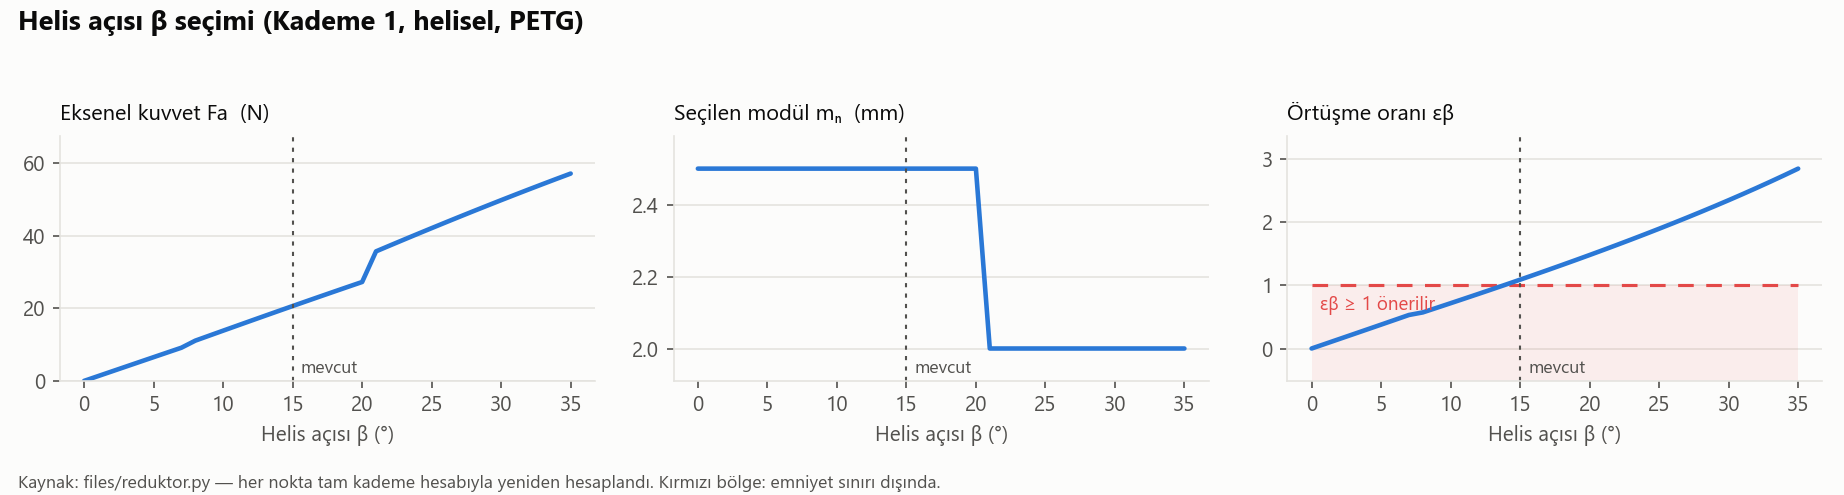
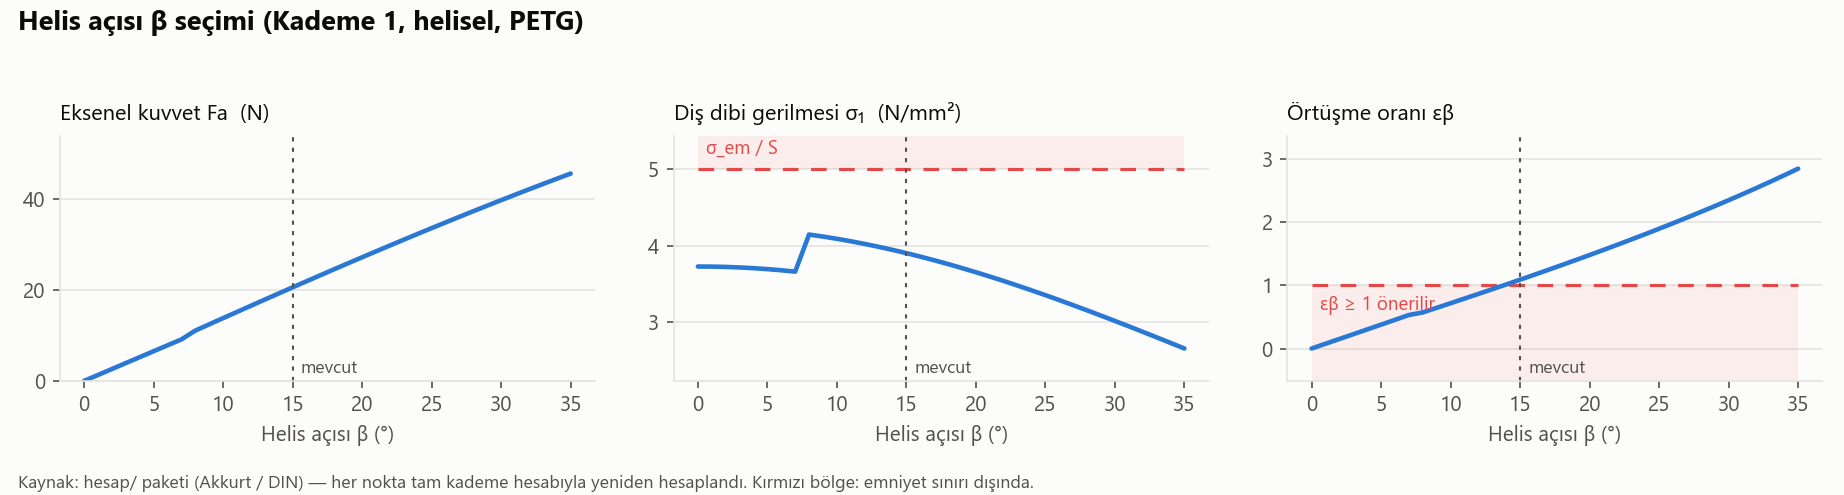
Belgeleri, grafikleri ve ekran görüntülerini güncelle; MIT lisansı ekle
- README (TR/EN): test rozeti, testler bölümü, yeni proje yapısı,
  ISO 6336 / Kf / rulman sınırlamaları
- Duyarlılık grafikleri düzeltilmiş hesapla yeniden üretildi
- Ekran görüntüleri yeni arayüzle yeniden çekildi

diff --git a/docs/grafik_uret.py b/docs/grafik_uret.py
@@ -1,7 +1,7 @@
 # -*- coding: utf-8 -*-
 """
 README grafiklerini üretir. Veri, uygulamadaki "Grafik" sekmesiyle aynı fonksiyondan
-(motor.sweep_analysis -> files/reduktor.py) gelir.
+(motor.sweep_analysis -> hesap/ paketi) gelir.
 
     pip install matplotlib      # yalnızca bu betik için gerekir
     python docs/grafik_uret.py
@@ -69,7 +69,7 @@ def ciz(stage, param, baslik, dosya):
         ax.set_title(p["name"] + (f"  ({p['unit']})" if p["unit"] else ""), loc="left",
                      fontsize=10.5, color=INK, pad=8)
         ax.set_xlabel(d["xlabel"] + (f" ({d['xunit']})" if d["xunit"] else ""))
-    fig.text(0.01, 0.015, "Kaynak: files/reduktor.py — her nokta tam kademe hesabıyla "
+    fig.text(0.01, 0.015, "Kaynak: hesap/ paketi (Akkurt / DIN) — her nokta tam kademe hesabıyla "
              "yeniden hesaplandı. Kırmızı bölge: emniyet sınırı dışında.",
              fontsize=8.5, color=INK2)
     fig.tight_layout(rect=(0, 0.06, 1, 0.94))

diff --git a/README.md b/README.md
@@ -1,5 +1,9 @@
 # Gear & Drivetrain Design Tool
 
+[![testler](https://github.com/HCE-Engineer/gear-drivetrain-design-tool/actions/workflows/testler.yml/badge.svg)](https://github.com/HCE-Engineer/gear-drivetrain-design-tool/actions/workflows/testler.yml)
+![Python](https://img.shields.io/badge/python-3.10%2B-blue)
+![Lisans](https://img.shields.io/badge/lisans-MIT-green)
+
 Dişli geometrisi üretir; redüktör ve diferansiyel gibi dişli sistemlerinin tasarımını ve
 simülasyonunu destekler.
 
@@ -41,19 +45,21 @@ dip ve uç radyüsü, alttan kesilme, profil kaydırma, boşluk (backlash).
 
 Tasarımda tek bir parametreyi değiştirince dişlinin nasıl tepki verdiğini görmek için
 redüktör modunda bir **Grafik** sekmesi var. Seçilen kademenin bir parametresi taranır. Her
-nokta `reduktor.py` ile baştan hesaplanır ve sonuç emniyet sınırlarıyla birlikte çizilir:
+nokta `hesap/` paketiyle baştan hesaplanır ve sonuç emniyet sınırlarıyla birlikte çizilir:
 
 ![Profil kaydırma grafiği](docs/images/grafik-profil-kaydirma.png)
 
-Profil kaydırma x₁ artırıldığında diş dibi gerilmesi düşer, yani dişli güçlenir. Fakat
-x₁ ≈ 0,57'den sonra diş ucu çok incelir ve sivrilme sınırının altına iner. İyi bir tasarım
-bu iki sınır arasında kalmalıdır; grafik bu dengeyi bir bakışta gösteriyor.
+Profil kaydırma x₁ artırıldığında diş dibi gerilmesi düşer, yani dişli güçlenir; kavrama
+oranı ise azalır. x₁ ≈ 0,67'den sonra diş ucu çok incelir ve sivrilme sınırının altına
+iner (baş kısaltma uygulanmış haliyle). İyi bir tasarım bu sınırların arasında kalmalıdır;
+grafik bu dengeyi bir bakışta gösteriyor.
 
 ![Helis açısı grafiği](docs/images/grafik-helis-acisi.png)
 
-Helis açısı β büyüdükçe dişler daha uzun süre temasta kalır (εβ artar), ama yataklara
-binen eksenel kuvvet Fa da artar. β ≈ 13°'nin altında örtüşme oranı yetersiz kalır. β =
-21°'de hesap daha küçük bir standart modüle geçer; Fa'daki sıçrama bu yüzdendir.
+Helis açısı β büyüdükçe dişler daha uzun süre temasta kalır (εβ artar) ve diş dibi
+gerilmesi düşer, ama yataklara binen eksenel kuvvet Fa artar. β ≈ 14°'nin altında örtüşme
+oranı yetersiz kalır. σ₁'deki β = 8° sıçraması bir tasarım kuralından gelir: helisel
+dişlide alttan kesilme sınırı düştüğü için pinyon 17 yerine 16 dişle seçilir.
 
 Aynı grafikleri uygulamada fareyle inceleyip tablo olarak da görebilirsin. README
 görselleri [`docs/grafik_uret.py`](docs/grafik_uret.py) ile, uygulamadaki fonksiyonun
@@ -61,9 +67,12 @@ aynısından üretilir.
 
 ## Mühendislik tarafı
 
-- **Mukavemet hesabı** (Makine Elemanları dersi yöntemi, Akkurt / DIN):
+- **Mukavemet hesabı** (Akkurt, *Makina Elemanları Cilt II* yöntemi + DIN):
   - diş dibi eğilme ve yüzey (Hertz) basıncı, DIN 780 standart modül seçimi
-  - çevrim sayısına bağlı ömür faktörü
+  - izin verilen gerilme σ_em·Y_N/S boyutlandırmada ve kontrolde **aynı**; pinyon ve çark
+    ayrı ayrı (kendi form faktörü ve kendi çevrim sayısıyla) kontrol edilir
+  - çevrim sayısına bağlı ömür faktörü Y_N
+  - profil kaydırmada çalışma eksen mesafesi ve **baş kısaltma** (dip boşluğu korunur)
   - kavrama oranları εα / εβ / εγ, diş ucu sivrilme kontrolü
   - verim ve asal diş (hunting) kontrolü
 - **Mil ve rulman:**
@@ -82,6 +91,27 @@ aynısından üretilir.
 - **Çakışmasız montaj:** her redüktör kademesi bir önceki kademenin çıkış miline
   takılır. Mil etrafındaki açı ve eksenel mesafe, parçalar birbirine girmeyecek şekilde
   otomatik seçilir (silindir vekilleri üzerinde Monte-Carlo testi).
+
+## Testler
+
+`pytest` ile 60'tan fazla otomatik test her push'ta GitHub Actions'ta çalışır:
+
+- **Kitap / el hesabı örnekleri:** düz konik dişli çözümlü örneği (δ01 = 12,53°,
+  mm = 5,535 mm, Ft = 1412,1 N, Fa = 111,5 N, Fr = 501,7 N) ve z = 20/60 çiftinde
+  εα = 1,671.
+- **Tutarlılık:** 36 farklı güç / devir / oran / malzeme kombinasyonunda, boyutlandırılan
+  dişlinin hem pinyon hem çark için kendi kontrolünü geçtiği; profil kaydırmada dip
+  boşluğunun 0,25·m kaldığı.
+- **Kinematik:** düz, helisel, iç, konik, kremayer ve diferansiyelde, animasyon oranlarıyla
+  döndürülen dişliler arasında CAD kesişim hacminin sıfır olduğu; ters yönde
+  döndürüldüğünde ise çakışma oluştuğu.
+- **Dışa aktarma:** STEP / STL / DXF dosyalarının üretildiği ve DXF profilinin XY
+  düzleminde olduğu.
+
+```bash
+pip install pytest
+python -m pytest
+```
 
 ## Hızlı başlangıç
 
@@ -106,7 +136,7 @@ ilgili modu doğrudan açar (`oynat=1` animasyonu başlatır).
 flowchart LR
     UI["Tarayıcı arayüzü<br/>three.js görüntüleyici + formlar + grafikler"] -- "JSON parametreler" --> API["Flask sunucu<br/>uygulama/app.py"]
     API --> ENG["Geometri motoru<br/>uygulama/motor.py"]
-    ENG --> CALC["Mukavemet hesabı<br/>files/reduktor.py"]
+    ENG --> CALC["Mukavemet hesabı<br/>hesap/ paketi"]
     ENG --> PGW["py_gearworks<br/>(evolvent / konik / sikloid geometri)"]
     PGW --> OCC["build123d / OpenCascade<br/>B-rep katılar"]
     ENG -- "üçgen ağ + animasyon eksenleri" --> UI
@@ -115,7 +145,7 @@ flowchart LR
 
 1. Tarayıcı parametreleri sunucuya gönderir. Sunucu **py_gearworks** ile, **build123d /
    OpenCascade** üzerinde gerçek B-rep katılar oluşturur.
-2. Redüktör modunda önce **`reduktor.py`** her kademeyi boyutlandırır (modül, diş
+2. Redüktör modunda önce **`hesap/`** paketi her kademeyi boyutlandırır (modül, diş
    genişliği, mil çapları, kamalar, rulmanlar). Motor bu sayıları dişlilere, millere ve
    kamalı deliklere çevirir, sonra parçaları çakışmadan yerleştirir.
 3. Her parça bir üçgen ağı, dönme ekseni ve hız oranıyla birlikte geri döner.
@@ -126,13 +156,18 @@ flowchart LR
 ## Proje yapısı
 
 ```
+hesap/               mukavemet hesap çekirdeği (CAD'den bağımsız, saf Python)
+  disli.py           kademe hesapları: düz / helisel, konik, sonsuz vida
+  mil.py, rulman.py  mil boyutlandırma (mukavemet + sehim/eğim), rulman seçimi
+  reduktor.py        bütün zincir: calc_reducer(cfg)
+  arama.py, rapor.py tasarım arama motoru, duyarlılık taraması, metin rapor
 uygulama/            web uygulaması
   app.py             Flask sunucu (oluşturma, dışa aktarma, rapor, arama, grafik uçları)
-  motor.py           geometri motoru: dişli tipleri, diferansiyel, redüktör montajı, tarama
+  motor.py           geometri motoru: dişli tipleri, diferansiyel, redüktör montajı
   static/            arayüz: index.html, app.js (three.js + SVG grafikler), style.css
-files/reduktor.py    redüktör mukavemet hesabı (kendi Tkinter arayüzü de var)
-files/stl_to_step.py bağımlılıksız STL → STEP dönüştürücü
-mil_spline.py        bağımsız evolvent kamalı mil profili → DXF / SVG
+tests/               pytest testleri (hesap + 3B geometri / kinematik)
+legacy/              ilk sürüm: Tkinter masaüstü arayüzü, CLI, OpenSCAD çıktısı
+araclar/             bağımsız araçlar: kamalı mil profili → DXF/SVG, STL → STEP
 vendor/py_gearworks  dişli geometri kütüphanesi (Apache-2.0, bkz. Kaynaklar)
 docs/                tutorial, görseller ve grafik üretme betiği
 ```
@@ -143,8 +178,14 @@ docs/                tutorial, görseller ve grafik üretme betiği
   sonsuz vida geometrisi yok). Görselleştirme için uygundur, çark imalatı için değil.
 - `py_gearworks`'ün kremayer eşleştirmesi pinyonu yanlış diş fazına koyabiliyor. Motor,
   pinyonu çakışmanın sıfır olduğu açıya döndürerek bunu düzeltir.
-- Mukavemet formülleri ders yöntemini izler. Raporda `[DIN/tahmini]` diye işaretlenen
-  değerler tahmindir; gerçek bir uygulamada standarda göre kontrol edilmelidir.
+- Mukavemet hesabı Akkurt'taki klasik yöntemi izler; endüstride kullanılan ISO 6336 /
+  DIN 3990 (ve KISSsoft gibi yazılımlar) ile birebir karşılaştırma henüz yapılmadı.
+  Raporda `[DIN/tahmini]` diye işaretlenen değerler tahmindir; gerçek bir uygulamada
+  standarda göre kontrol edilmelidir.
+- Diş dibi form faktörü Kf, Akkurt grafiğine yaklaşık bir eğriyle hesaplanır.
+- Rulman seçimi yalnızca sabit bilyeli rulmanlarla yapılır; konik dişli kademesindeki
+  eksenel yük için konik makaralı rulman henüz yok. Konik dişlide yüzey basıncı kontrolü
+  de yok.
 
 ## Kaynaklar
 
@@ -155,3 +196,8 @@ docs/                tutorial, görseller ve grafik üretme betiği
 
 Redüktör hesapları, web uygulaması, diferansiyel ve redüktör montaj mantığı, kinematik,
 duyarlılık analizi ve entegrasyon bu proje için yazıldı.
+
+## Lisans
+
+Bu projenin kodu [MIT lisansı](LICENSE) ile yayınlanmıştır. `vendor/py_gearworks` kendi
+Apache-2.0 lisansını korur.

diff --git a/README.en.md b/README.en.md
@@ -1,5 +1,9 @@
 # Gear & Drivetrain Design Tool
 
+[![tests](https://github.com/HCE-Engineer/gear-drivetrain-design-tool/actions/workflows/testler.yml/badge.svg)](https://github.com/HCE-Engineer/gear-drivetrain-design-tool/actions/workflows/testler.yml)
+![Python](https://img.shields.io/badge/python-3.10%2B-blue)
+![License](https://img.shields.io/badge/license-MIT-green)
+
 Generates gear geometry and supports the design and simulation of gear systems such as
 reducers and differentials.
 
@@ -39,21 +43,23 @@ fillets, undercut, profile shift, backlash.
 ## Sensitivity charts
 
 In reducer mode a **Grafik** (chart) tab sweeps one parameter of a stage. Every point is
-recalculated with `reduktor.py` and plotted against its safety limit:
+recalculated with the `hesap/` package and plotted against its safety limit:
 
 ![Profile shift sweep](docs/images/grafik-profil-kaydirma.png)
 
-More profile shift lowers the root stress, but beyond x₁ ≈ 0.57 the tooth tip becomes too
-thin. The chart shows that trade-off at a glance. In the app you can hover over the curves
+More profile shift lowers the root stress, but beyond x₁ ≈ 0.67 the tooth tip becomes too
+thin (with tip shortening applied). The chart shows that trade-off at a glance. In the app you can hover over the curves
 and view the data as a table. The README images are generated from the same function by
 [`docs/grafik_uret.py`](docs/grafik_uret.py).
 
 ## Engineering inside
 
-- **Strength calculation** (Machine Elements course method, Akkurt / DIN): tooth-root
-  bending and surface (Hertz) pressure, standard module selection (DIN 780), life factor
-  from load cycles, contact ratio εα / εβ / εγ, tip thickness check, efficiency and
-  hunting-tooth check.
+- **Strength calculation** (Akkurt, *Makina Elemanları Vol. II* method + DIN):
+  tooth-root bending and surface (Hertz) pressure, standard module selection (DIN 780).
+  The allowable stress σ_em·Y_N/S is the **same** in sizing and in the check, and pinion
+  and wheel are checked separately (each with its own form factor and load cycles).
+  Also: life factor, working center distance and **tip shortening** for profile-shifted
+  pairs, contact ratio εα / εβ / εγ, tip thickness, efficiency and hunting-tooth check.
 - **Shafts & bearings:** equivalent bending moment, shaft diameter from strength *and*
   stiffness (deflection and slope limits), DIN 6885 key pressure, ball bearing selection
   with L10h life.
@@ -70,12 +76,31 @@ and view the data as a table. The README images are generated from the same func
   shaft. The angle around the shaft and the axial offset are picked automatically so that
   nothing overlaps (Monte-Carlo test on cylinder proxies).
 
+## Tests
+
+More than 60 `pytest` tests run on every push via GitHub Actions:
+
+- **Textbook / hand-calculation examples:** a solved straight bevel gear example
+  (δ01 = 12.53°, mean module 5.535 mm, Ft = 1412.1 N, Fa = 111.5 N, Fr = 501.7 N) and
+  εα = 1.671 for a 20/60 pair.
+- **Consistency:** in 36 power / speed / ratio / material combinations the sized gear passes
+  its own pinion *and* wheel check; tip shortening keeps the root clearance at 0.25·m.
+- **Kinematics:** for spur, helical, internal, bevel, rack and the differential, the CAD
+  intersection volume between meshing gears stays zero when rotated by the animation
+  ratios, and becomes non-zero when one gear is rotated the wrong way.
+- **Export:** STEP / STL / DXF files are produced and the DXF profile lies in the XY plane.
+
+```bash
+pip install pytest
+python -m pytest
+```
+
 ## Quick start
 
 Requirements: Python 3.10+ (tested on 3.13), Windows / Linux / macOS.
 
 ```bash
-git clone https://github.com/<your-username>/gear-drivetrain-design-tool.git
+git clone https://github.com/HCE-Engineer/gear-drivetrain-design-tool.git
 cd gear-drivetrain-design-tool
 pip install -r requirements.txt
 python uygulama/app.py
@@ -93,7 +118,7 @@ Handy links: `?tip=diferansiyel`, `?tip=reduktor`, `?tip=planet&oynat=1` open a 
 flowchart LR
     UI["Browser UI<br/>three.js viewer + forms"] -- "JSON params" --> API["Flask server<br/>uygulama/app.py"]
     API --> ENG["Geometry engine<br/>uygulama/motor.py"]
-    ENG --> CALC["Strength calc<br/>files/reduktor.py"]
+    ENG --> CALC["Strength calc<br/>hesap/ package"]
     ENG --> PGW["py_gearworks<br/>(involute / bevel / cycloid geometry)"]
     PGW --> OCC["build123d / OpenCascade<br/>B-rep solids"]
     ENG -- "tessellated mesh + animation axes" --> UI
@@ -102,7 +127,7 @@ flowchart LR
 
 1. The browser sends the parameters. The server builds exact B-rep solids with
    **py_gearworks** on top of **build123d / OpenCascade**.
-2. In reducer mode, **`reduktor.py`** first sizes each stage (module, face width, shaft
+2. In reducer mode, the **`hesap/`** package first sizes each stage (module, face width, shaft
    diameters, keys, bearings). The engine then turns those numbers into gears, shafts and
    keyed bores and places them without collisions.
 3. Each part comes back as a triangle mesh plus its rotation axis and speed ratio. The
@@ -113,15 +138,20 @@ flowchart LR
 ## Project structure
 
 ```
+hesap/               strength calculation core (pure Python, no CAD dependency)
+  disli.py           stage calculations: spur / helical, bevel, worm
+  mil.py, rulman.py  shaft sizing (strength + deflection/slope), bearing selection
+  reduktor.py        the whole chain: calc_reducer(cfg)
+  arama.py, rapor.py design search, sensitivity sweep, text report
 uygulama/            web app
-  app.py             Flask server (build, export, report, design search endpoints)
-  motor.py           geometry engine: gear types, differential, reducer assembly, export
-  static/            UI: index.html, app.js (three.js viewer), style.css
-files/reduktor.py    reducer strength calculation (also has its own Tkinter GUI)
-files/stl_to_step.py dependency-free STL → STEP converter
-mil_spline.py        standalone involute spline shaft profile → DXF / SVG
+  app.py             Flask server (build, export, report, search, chart endpoints)
+  motor.py           geometry engine: gear types, differential, reducer assembly
+  static/            UI: index.html, app.js (three.js viewer + SVG charts), style.css
+tests/               pytest tests (calculation + 3D geometry / kinematics)
+legacy/              first version: Tkinter desktop UI, CLI, OpenSCAD export
+araclar/             standalone tools: spline shaft profile → DXF/SVG, STL → STEP
 vendor/py_gearworks  gear geometry library (Apache-2.0, see credits)
-docs/                tutorial and images
+docs/                tutorial, images and chart script
 ```
 
 ## Notes & limitations
@@ -130,8 +160,14 @@ docs/                tutorial and images
   geometry yet). It is good for visualisation, not for manufacturing the worm wheel.
 - In `py_gearworks` the rack & pinion meshing can place the pinion in the wrong tooth
   phase. The engine fixes this by rotating the pinion to the zero-overlap angle.
-- The strength formulas follow the course method. Values tagged `[DIN/tahmini]` in the
-  report are estimates and should be checked against the standard before real use.
+- The strength calculation follows the classic Akkurt method; it has not yet been
+  compared one-to-one with ISO 6336 / DIN 3990 (or tools such as KISSsoft). Values tagged
+  `[DIN/tahmini]` in the report are estimates and should be checked against the standard
+  before real use.
+- The tooth-root form factor Kf uses an approximate fit of Akkurt's chart.
+- Bearing selection only uses deep-groove ball bearings; tapered roller bearings for the
+  axial load of bevel stages are not implemented yet, nor is the bevel surface-pressure
+  check.
 
 ## Credits
 
@@ -142,3 +178,8 @@ docs/                tutorial and images
 
 Reducer calculations, the web app, the differential and reducer assembly logic, the
 kinematics and the integration were written for this project.
+
+## License
+
+The code of this project is released under the [MIT license](LICENSE).
+`vendor/py_gearworks` keeps its own Apache-2.0 license.

diff --git a/docs/TUTORIAL.md b/docs/TUTORIAL.md
@@ -113,7 +113,7 @@ Redüktörü oluşturduktan sonra sağ paneldeki **Grafik** sekmesini aç.
 5. *Tablo olarak göster* düğmesi sayıları tablo halinde verir.
 
 **Örnek okuma:** x₁ taramasında diş dibi gerilmesi x₁ arttıkça düşer, ama diş ucu
-kalınlığı x₁ ≈ 0,57'de sivrilme sınırına iner. Demek ki bu kademede x₁'i 0,55'in
+kalınlığı x₁ ≈ 0,67'de sivrilme sınırına iner. Demek ki bu kademede x₁'i 0,65'in
 üzerine çıkarmamak gerekir; mevcut tasarım (x₁ = 0) üç sınırın da içinde.
 
 <br clear="right">
